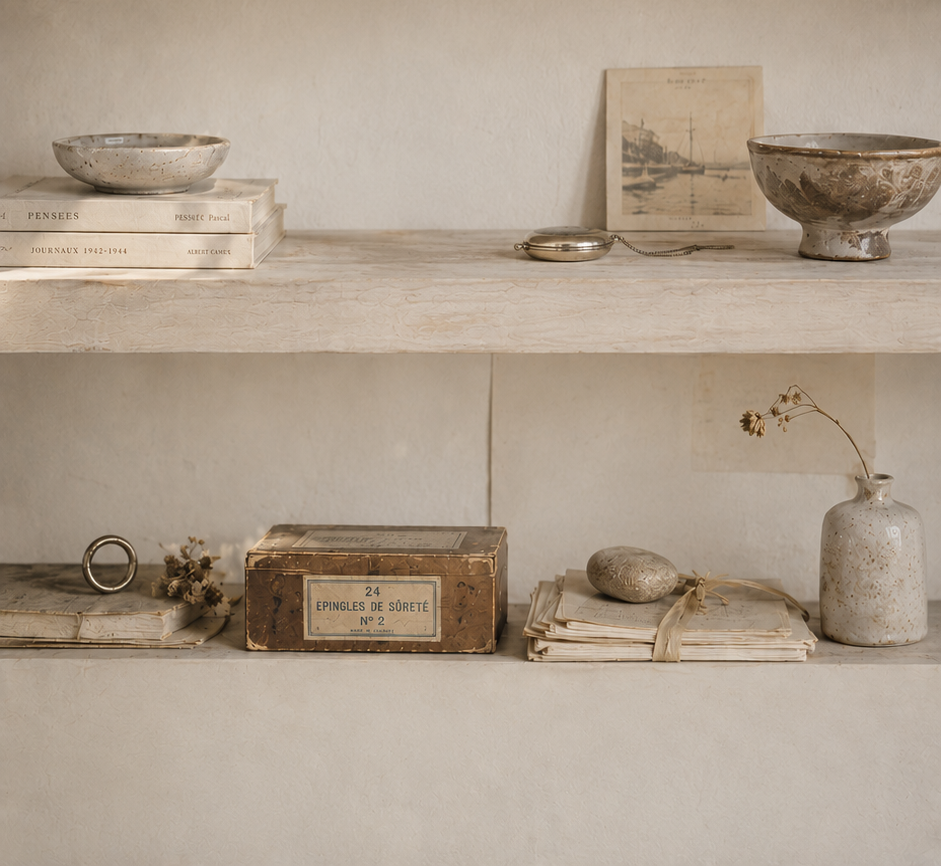
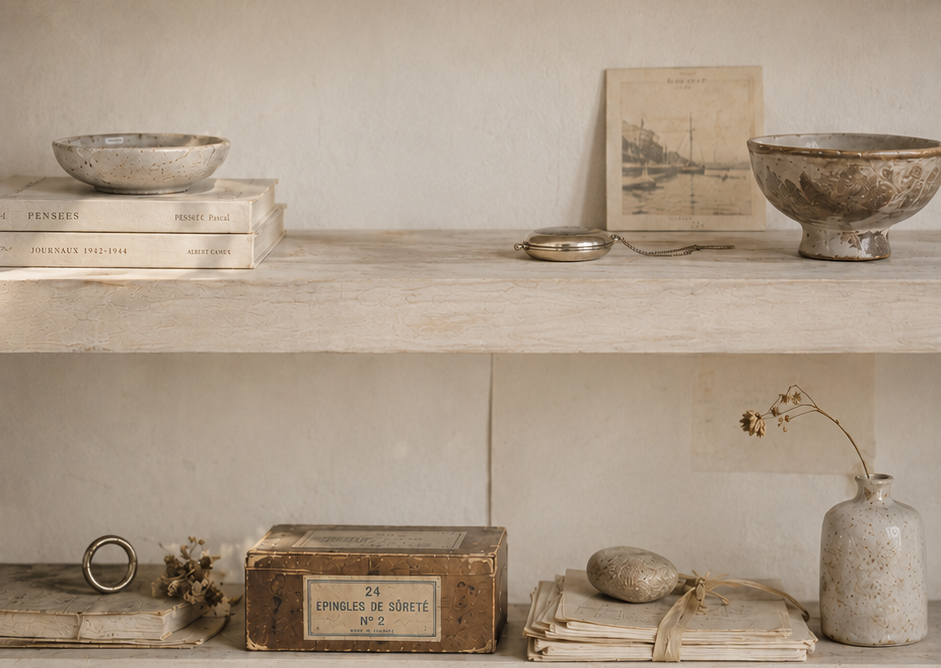
Paint the wordmark instead of filtering it; crop the coda to the shelf line
The logotype is now masked and filled rather than colour-shifted. Its texture
lives entirely in the alpha — the pixels underneath are a flat near-black — so
masking keeps every speckle and gives an exact tone. The old chain could not
have reached a warm cream anyway: on white, sepia only pulls blue down about 6%,
so it bottomed out near neutral whatever the numbers said. It now matches the
subtitle exactly.

Prices darker and 2px smaller, names 1px larger, carriers 12% larger.

The closing bay was carrying 200px of empty shelf top below the objects with no
front edge in frame. Cropped to the line where the surface meets their feet.

diff --git a/shelf/src/shelf.css b/shelf/src/shelf.css
@@ -14,7 +14,9 @@
   --ink:#2b2722;            /* warm near-black, never pure black */
   /* Label ink: a warm reddish orange, held back from a pure orange so it reads
      as stamped pigment on the plaster rather than as a UI accent. */
-  --ink-label:#b4502a;
+  --ink-label:#8f3a1e;      /* darker, closer to iron-oxide than to orange */
+  /* the wordmark, tuned to the subtitle so the two read as one voice */
+  --logo-tint:#e8dcc4;
   --paper:#efe9df;
   --tan:#8d8375;
   --olive:#5a5348;
@@ -117,13 +119,16 @@ body.intro-done .nav .logo{animation:fadeIn .55s ease both}
   /* An ivory beam rather than pure white: screened white stays white whatever is
      beneath it, and the wall would never show through. The bloom is the light
      scattering off the plaster; a projection casts no shadow of its own. */
-  /* The beam has to be well below white. The first attempt filtered to
-     (252,248,240) — screened over the wall that lands on 249, indistinguishable
-     from flat white, which is why nothing appeared to change. This yields about
-     (215,205,186), which screens to 237 on lit plaster and 227 in the leaf
-     shadow: the wall reads through, and the shadows dim the mark as they cross. */
-  filter:brightness(0) invert(1) sepia(.36) saturate(.8) brightness(.86)
-         drop-shadow(0 0 30px rgba(255,232,196,.22));
+  /* Painted, not filtered. The mark's texture lives entirely in its alpha — the
+     colour underneath is a flat near-black — so masking with it and filling
+     behind gives an exact tone with every speckle intact. The old filter chain
+     could not have got here: on white, sepia only pulls blue down about 6%, so
+     it bottomed out around (215,205,186), barely warm at all. */
+  background-color:var(--logo-tint);
+  -webkit-mask:url("logotype.png") center/contain no-repeat;
+          mask:url("logotype.png") center/contain no-repeat;
+  aspect-ratio:888/331;width:auto;
+  filter:drop-shadow(0 0 30px rgba(255,232,196,.22));
   opacity:.95;
 }
 @media(max-width:700px){.logotype{height:151px}}
@@ -217,7 +222,7 @@ body.intro-done .nav .logo{animation:fadeIn .55s ease both}
   /* per-carrier values arrive inline from the build */
   /* The box takes the carrier's own proportions and the background fills it
      exactly, so the paper is scaled rather than stretched. */
-  box-sizing:border-box;height:3.77em;aspect-ratio:var(--car-ar,2.13);width:auto;
+  box-sizing:border-box;height:4.22em;aspect-ratio:var(--car-ar,2.13);width:auto;
   padding:0 1.1em;
   text-align:center;white-space:nowrap;line-height:1.15;
   /* contain, not 100% 100%: the box can still end up a few percent off the
@@ -240,7 +245,7 @@ body.intro-done .nav .logo{animation:fadeIn .55s ease both}
   display:block;
   /* the dark ribbon cut, not the light one — this is the bold of the family */
   font-family:"Gabriele",Georgia,serif;font-weight:400;
-  font-size:clamp(6px,calc(1.34vw - 7px),16px);letter-spacing:.02em;
+  font-size:clamp(7px,calc(1.34vw - 6px),17px);letter-spacing:.02em;
   color:var(--ink);
 }
 
@@ -252,7 +257,7 @@ body.intro-done .nav .logo{animation:fadeIn .55s ease both}
   /* the same dark ribbon cut as the name, so the pair reads as one stamp */
   font-family:"Gabriele",Georgia,serif;font-weight:400;
   /* deliberately larger than the name now */
-  font-size:clamp(8px,calc(1.34vw - 5px),18px);letter-spacing:.05em;
+  font-size:clamp(6px,calc(1.34vw - 7px),16px);letter-spacing:.05em;
   color:var(--ink-label);
   max-width:0;opacity:0;margin-left:0;transform:translateX(.45em);
   transition:max-width .36s cubic-bezier(.22,.9,.28,1),opacity .28s ease,

diff --git a/shelf/tools/build_shelf.py b/shelf/tools/build_shelf.py
@@ -74,7 +74,7 @@ def main():
         <p class="eyebrow">Studio Ma&ccedil;on</p>
         <h1>Cast by hand, one at a time</h1>
         -->
-        <img class="logotype" src="logotype.png?v={_ltv}" alt="Studio Ma&ccedil;on">
+        <span class="logotype" role="img" aria-label="Studio Ma&ccedil;on"></span>
         <p class="tagline" data-type="Artifacts of Love &bull; Handmade in VT"></p>
         <!-- <p class="lede">{html.escape(tagline)}</p> -->
       </div>'''
@@ -147,7 +147,7 @@ def main():
             marks.append(
                 f'''      <a class="mark" href="/product/{slug}.html"
          aria-label="{html.escape(p['name'])}, view piece"
-         style="left:{left:.4f}%;top:{top:.4f}%;width:{sw / W * 100:.4f}%;--bx:{base_x:.3f}%;--by:{base_y:.3f}%;--ow:{obj_w:.3f}%;--carrier:url(carrier-{carrier}.webp);--tilt:{tilt};--car-ar:{g['ar']:.4f};--paper-dx:{(g['cx'] - 0.5) * 8.04:.3f}em;--paper-dy:{(g['cy'] - 0.5) * 3.77:.3f}em;--paper-tilt:{g['tilt']}deg;--piece-dx:{o.get("dx_px", 0)}px">
+         style="left:{left:.4f}%;top:{top:.4f}%;width:{sw / W * 100:.4f}%;--bx:{base_x:.3f}%;--by:{base_y:.3f}%;--ow:{obj_w:.3f}%;--carrier:url(carrier-{carrier}.webp);--tilt:{tilt};--car-ar:{g['ar']:.4f};--paper-dx:{(g['cx'] - 0.5) * 9.00:.3f}em;--paper-dy:{(g['cy'] - 0.5) * 4.22:.3f}em;--paper-tilt:{g['tilt']}deg;--piece-dx:{o.get("dx_px", 0)}px">
         <img class="piece" src="piece-{slug}.webp?v={piece_v}" alt="{html.escape(p['name'])}" loading="lazy">
         <span class="card" style="top:{card_top:.4f}%;left:{card_left:.4f}%">
           <span class="ink">
